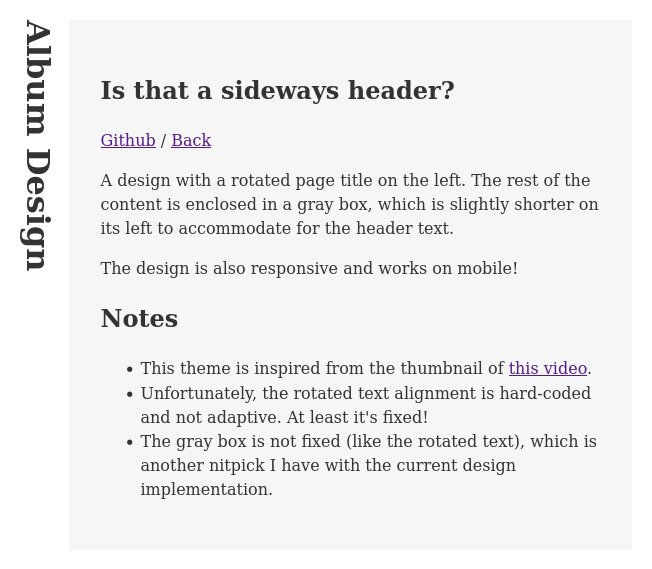
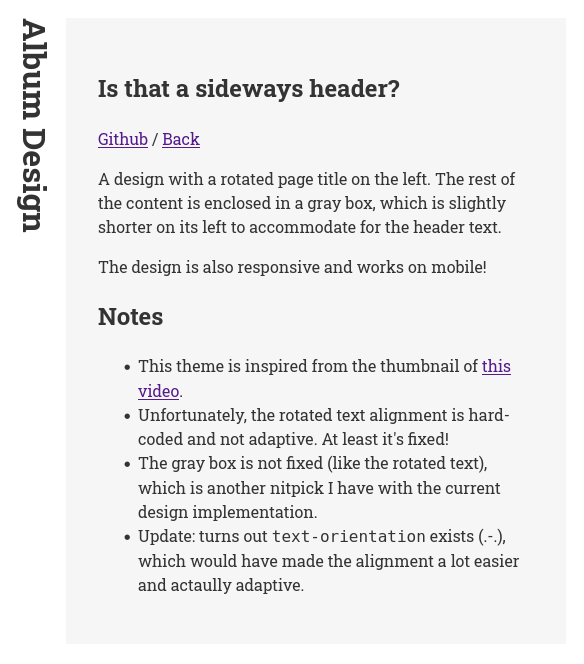
Change font to Roboto Slab

diff --git a/designs/columns/style.css b/designs/columns/style.css
@@ -1,3 +1,5 @@
+@import url("https://cdn.jsdelivr.net/npm/@xz/fonts@1/serve/roboto-slab.min.css");
+
 body {
     margin: 4ch auto;
     max-width: 80ch;
@@ -5,6 +7,7 @@ body {
     line-height: 1.5;
     padding: 0 2ch;
     color: #333;
+    font-family: 'Roboto Slab', sans-serif;
 }
 
 h1,h2,h3 {

diff --git a/designs/album/style.css b/designs/album/style.css
@@ -1,3 +1,5 @@
+@import url("https://cdn.jsdelivr.net/npm/@xz/fonts@1/serve/roboto-slab.min.css");
+
 body {
     margin: 2ch auto;
     max-width: 60ch;
@@ -5,6 +7,7 @@ body {
     line-height: 1.5;
     padding: 0 2ch;
     color: #333;
+    font-family: 'Roboto Slab', sans-serif;
 }
 
 header {

diff --git a/style.css b/style.css
@@ -1,3 +1,5 @@
+@import url("https://cdn.jsdelivr.net/npm/@xz/fonts@1/serve/roboto-slab.min.css");
+
 body {
     margin: 4ch auto;
     max-width: 60ch;
@@ -5,6 +7,7 @@ body {
     line-height: 1.5;
     padding: 0 2ch;
     color: #333;
+    font-family: 'Roboto Slab', sans-serif;
 }
 
 img {
